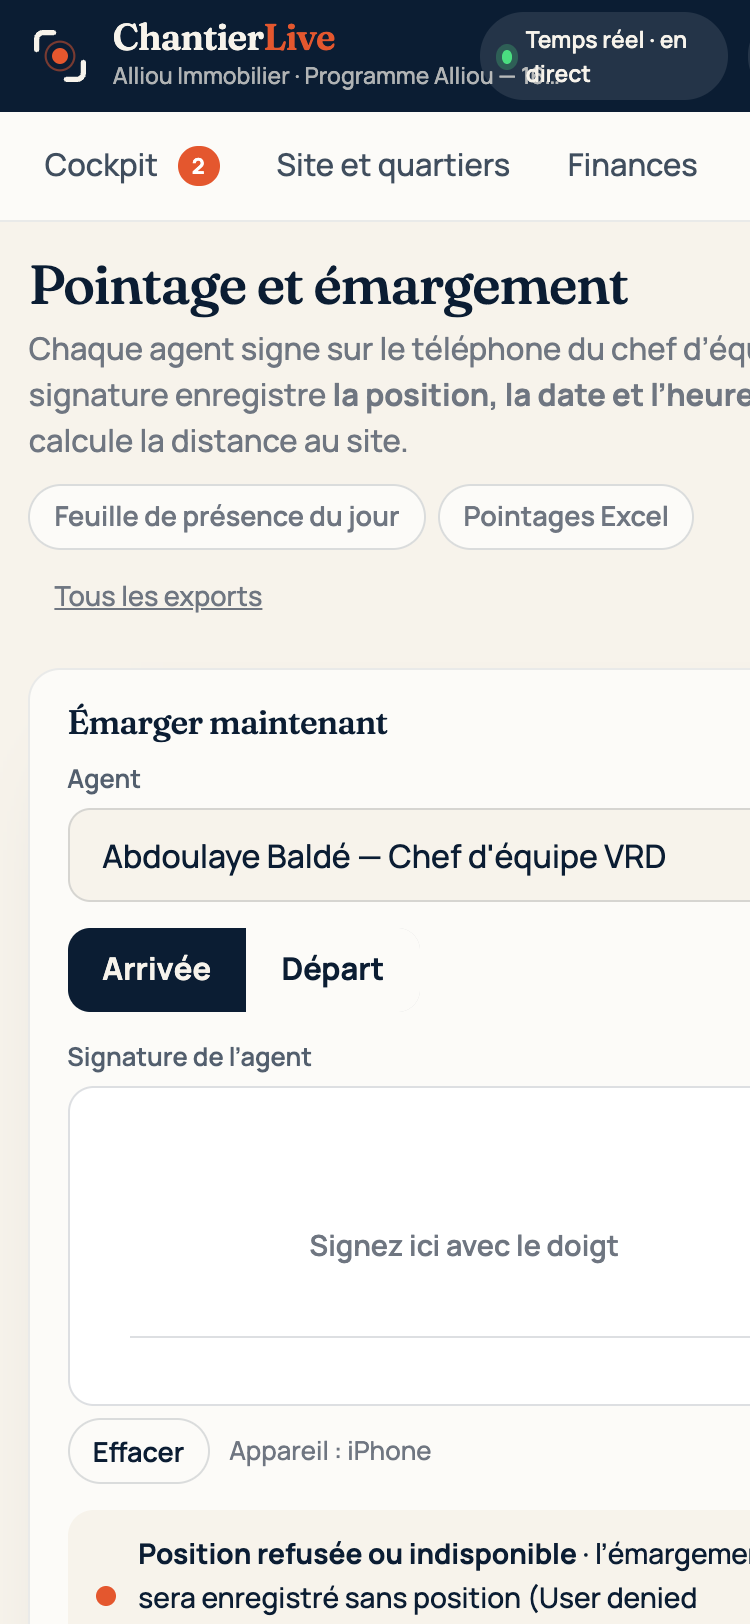
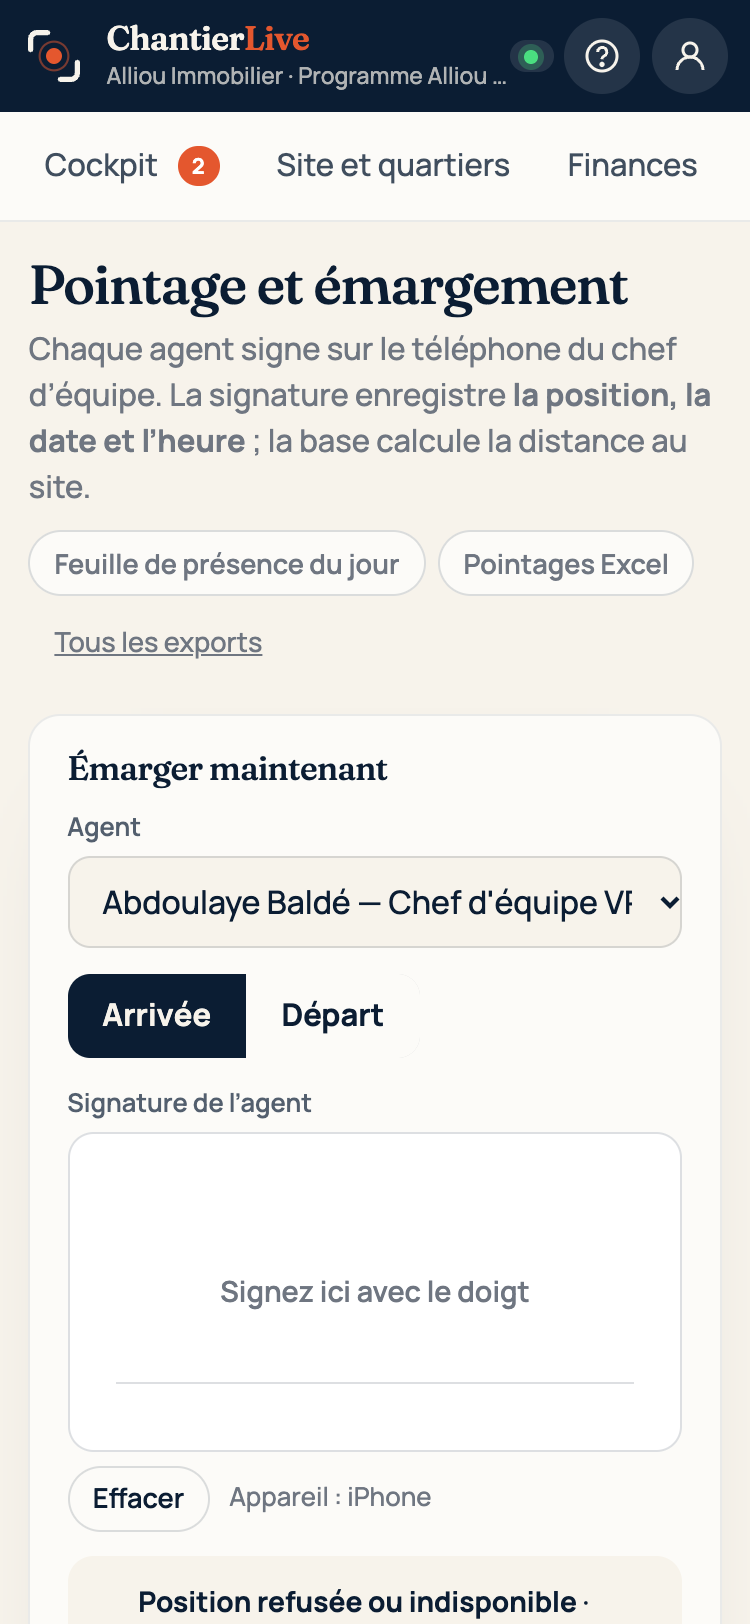
Affichage téléphone : la grille de page ne s'élargit plus à la largeur du menu (contenu coupé à droite), tableaux défilants dans les cartes, en-tête compact ; captures des magasins regénérées

diff --git a/app/app.css b/app/app.css
@@ -33,8 +33,8 @@ button,input,select,textarea{font:inherit;color:inherit}
 .top{grid-column:1/-1;background:var(--encre);color:var(--texte-sur-encre,var(--craie));display:flex;align-items:center;justify-content:space-between;padding:0 1rem 0 .8rem;position:sticky;top:0;z-index:20}
 .top .brand{display:flex;align-items:center;gap:.6rem;min-width:0}.top .brand svg{width:34px;height:34px;flex:none}
 .top .brand b{font-family:var(--serif);font-weight:600;font-size:1.15rem;letter-spacing:-.02em;display:block;line-height:1.1}.top .brand b span{color:var(--signal)}
-.top .brand small{display:block;font-size:.72rem;opacity:.7;white-space:nowrap;overflow:hidden;text-overflow:ellipsis;max-width:60vw}
-.top .droite{display:flex;align-items:center;gap:.6rem}
+.top .brand>div{min-width:0}.top .brand small{display:block;font-size:.72rem;opacity:.7;white-space:nowrap;overflow:hidden;text-overflow:ellipsis}
+.top .droite{display:flex;align-items:center;gap:.6rem;flex:none}.pill span{white-space:nowrap}
 .clock{font-size:.8rem;opacity:.75}
 .pill{display:inline-flex;align-items:center;gap:.4rem;font-size:.72rem;font-weight:600;padding:.3rem .7rem;border-radius:999px;background:rgba(255,255,255,.1)}
 .pill i{width:7px;height:7px;border-radius:50%;background:var(--ciment)}.pill.on i{background:#4ADE80;box-shadow:0 0 0 3px rgba(74,222,128,.25)}.pill.off i{background:var(--or)}
@@ -65,8 +65,8 @@ table{width:100%;border-collapse:collapse;font-size:.9rem}th{text-align:left;fon
 .vide{padding:2rem;text-align:center;color:var(--ciment);border:1px dashed var(--hair2);border-radius:.9rem}
 .tag{display:inline-block;font-size:.72rem;padding:.15rem .55rem;border-radius:999px;background:var(--sable);font-weight:600}
 .demo{position:fixed;right:0;top:56px;writing-mode:vertical-rl;font-size:.62rem;letter-spacing:.2em;text-transform:uppercase;background:var(--signal);color:#fff;padding:.9rem .35rem;border-radius:0 0 0 .5rem;z-index:15}
-@media (max-width:900px){.app{grid-template-columns:1fr;grid-template-rows:56px auto 1fr}.side{position:sticky;top:56px;height:auto;display:flex;gap:.2rem;overflow-x:auto;padding:.5rem .6rem;border-right:0;border-bottom:1px solid var(--hair);background:var(--papier)}.side h5{display:none}.side a{white-space:nowrap;padding:.45rem .8rem}.g2,.g3,.g4,.g6{grid-template-columns:repeat(2,minmax(0,1fr))}.clock{display:none}}
-@media (max-width:600px){.g2,.g3,.g4,.g6{grid-template-columns:minmax(0,1fr)}main{padding:1rem .9rem 4rem}.demo{display:none}}
+@media (max-width:900px){.app{grid-template-columns:minmax(0,1fr);grid-template-rows:56px auto 1fr}.top,.side,main{min-width:0;max-width:100vw}.side{position:sticky;top:56px;height:auto;display:flex;gap:.2rem;overflow-x:auto;padding:.5rem .6rem;border-right:0;border-bottom:1px solid var(--hair);background:var(--papier)}.side h5{display:none}.side a{white-space:nowrap;padding:.45rem .8rem}.g2,.g3,.g4,.g6{grid-template-columns:repeat(2,minmax(0,1fr))}.clock{display:none}}
+@media (max-width:600px){.g2,.g3,.g4,.g6,.g[style*="grid-template-columns"]{grid-template-columns:minmax(0,1fr)!important}main{padding:1rem .9rem 4rem}.demo{display:none}.top{padding:0 .7rem 0 .6rem}.top .droite{gap:.35rem}.pill{padding:.3rem .45rem}.pill span{display:none}.top .brand b{font-size:1.05rem}html,body{overflow-x:hidden}.carte table{display:block;overflow-x:auto;-webkit-overflow-scrolling:touch}}
 
 /* ---- Marque blanche ---- */
 .top .brand img{height:36px;max-width:150px;object-fit:contain;flex:none}.brandAuth img{height:40px;max-width:200px;object-fit:contain}
